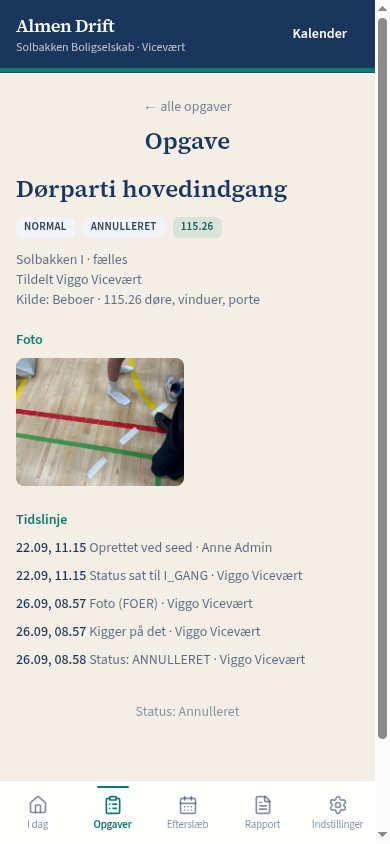
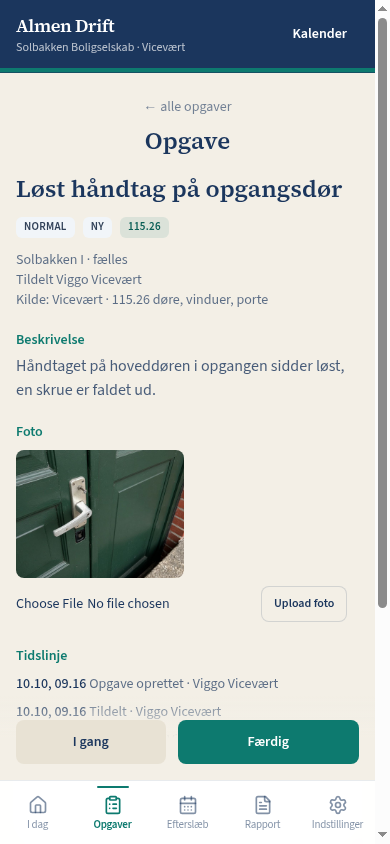
Nye skærmbilleder til trin 2: før- og efter-foto af samme opgave

diff --git a/saadan-virker-det.html b/saadan-virker-det.html
@@ -19,9 +19,9 @@
 <h1>Sådan virker det</h1>
 <ol class="steps">
 <li><h2>1. Opret opgaven</h2><p>Når beboeren skriver, oprettes opgaven i appen i stedet for at videresende mailen.</p></li>
-<li><h2>2. Viceværten lukker med foto</h2><p>Viceværten ser I dag og lukker opgaver med før- og efter-foto. Billederne viser to forskellige opgaver: én med før-foto og én lukket med efter-foto.</p>
-<figure class="shot"><img src="img/02-foer-foto.png" alt="En opgave i appen med før-foto" width="390" height="844" loading="lazy"></figure>
-<figure class="shot"><img src="img/03-efter-foto.png" alt="En lukket opgave i appen med efter-foto" width="390" height="844" loading="lazy"></figure></li>
+<li><h2>2. Viceværten lukker med foto</h2><p>Viceværten ser I dag og lukker opgaven med før- og efter-foto.</p>
+<figure class="shot"><img src="img/02-foer-foto.png" alt="Opgaven «Løst håndtag på opgangsdør» med før-foto" width="390" height="844" loading="lazy"></figure>
+<figure class="shot"><img src="img/03-efter-foto.png" alt="Samme opgave lukket med før- og efter-foto" width="390" height="844" loading="lazy"></figure></li>
 <li><h2>3. De faste ting ligger med dato</h2><p>Tilbagevendende opgaver lægges ind én gang, så man kan se, om årets runde er kørt.</p>
 <figure class="shot"><img src="img/04-aarshjul.png" alt="Kalender i appen med en tilbagevendende opgave" width="390" height="844" loading="lazy"></figure></li>
 </ol>
